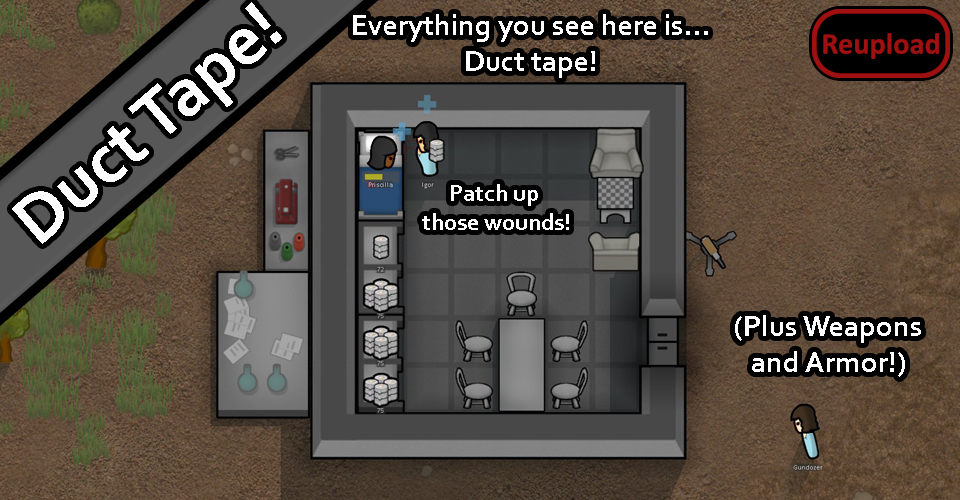
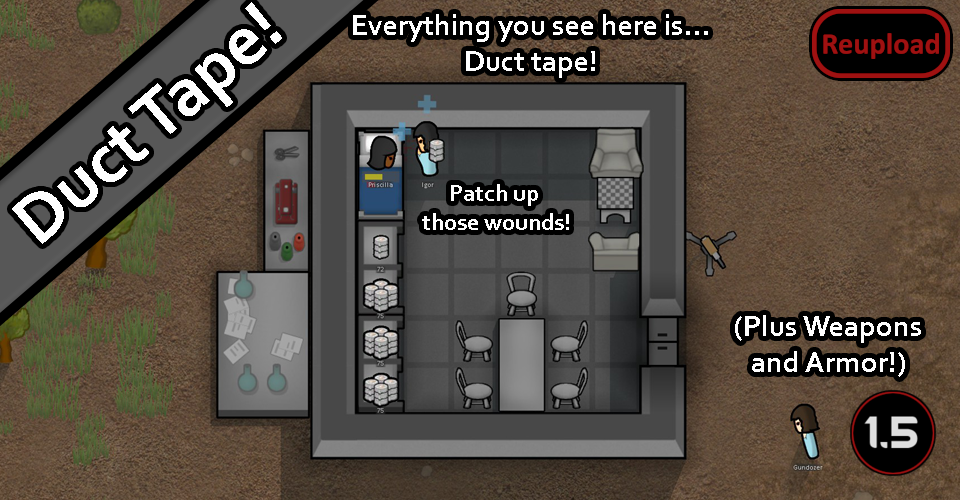
Mod updated for 1.5 and passed autotests

Changed region(s): [[0.875, 0.78, 1.0, 0.96]]

diff --git a/README.md b/README.md
@@ -32,11 +32,13 @@ Enjoy!
 
 -  See if the the error persists if you just have this mod and its requirements active.
 -  If not, try adding your other mods until it happens again.
--  Post your error-log using https://steamcommunity.com/workshop/filedetails/?id=818773962]HugsLib and command Ctrl+F12
+-  Post your error-log using https://steamcommunity.com/workshop/filedetails/?id=818773962]HugsLib or the standalone https://steamcommunity.com/sharedfiles/filedetails/?id=2873415404]Uploader and command Ctrl+F12
 -  For best support, please use the Discord-channel for error-reporting.
 -  Do not report errors by making a discussion-thread, I get no notification of that.
 -  If you have the solution for a problem, please post it to the GitHub repository.
+-  Use https://github.com/RimSort/RimSort/releases/latest]RimSort to sort your mods
 
 
 
+https://steamcommunity.com/sharedfiles/filedetails/changelog/2227138196]![Image](https://img.shields.io/github/v/release/emipa606/DuctTape?label=latest%20version&style=plastic&color=9f1111&labelColor=black)
 
